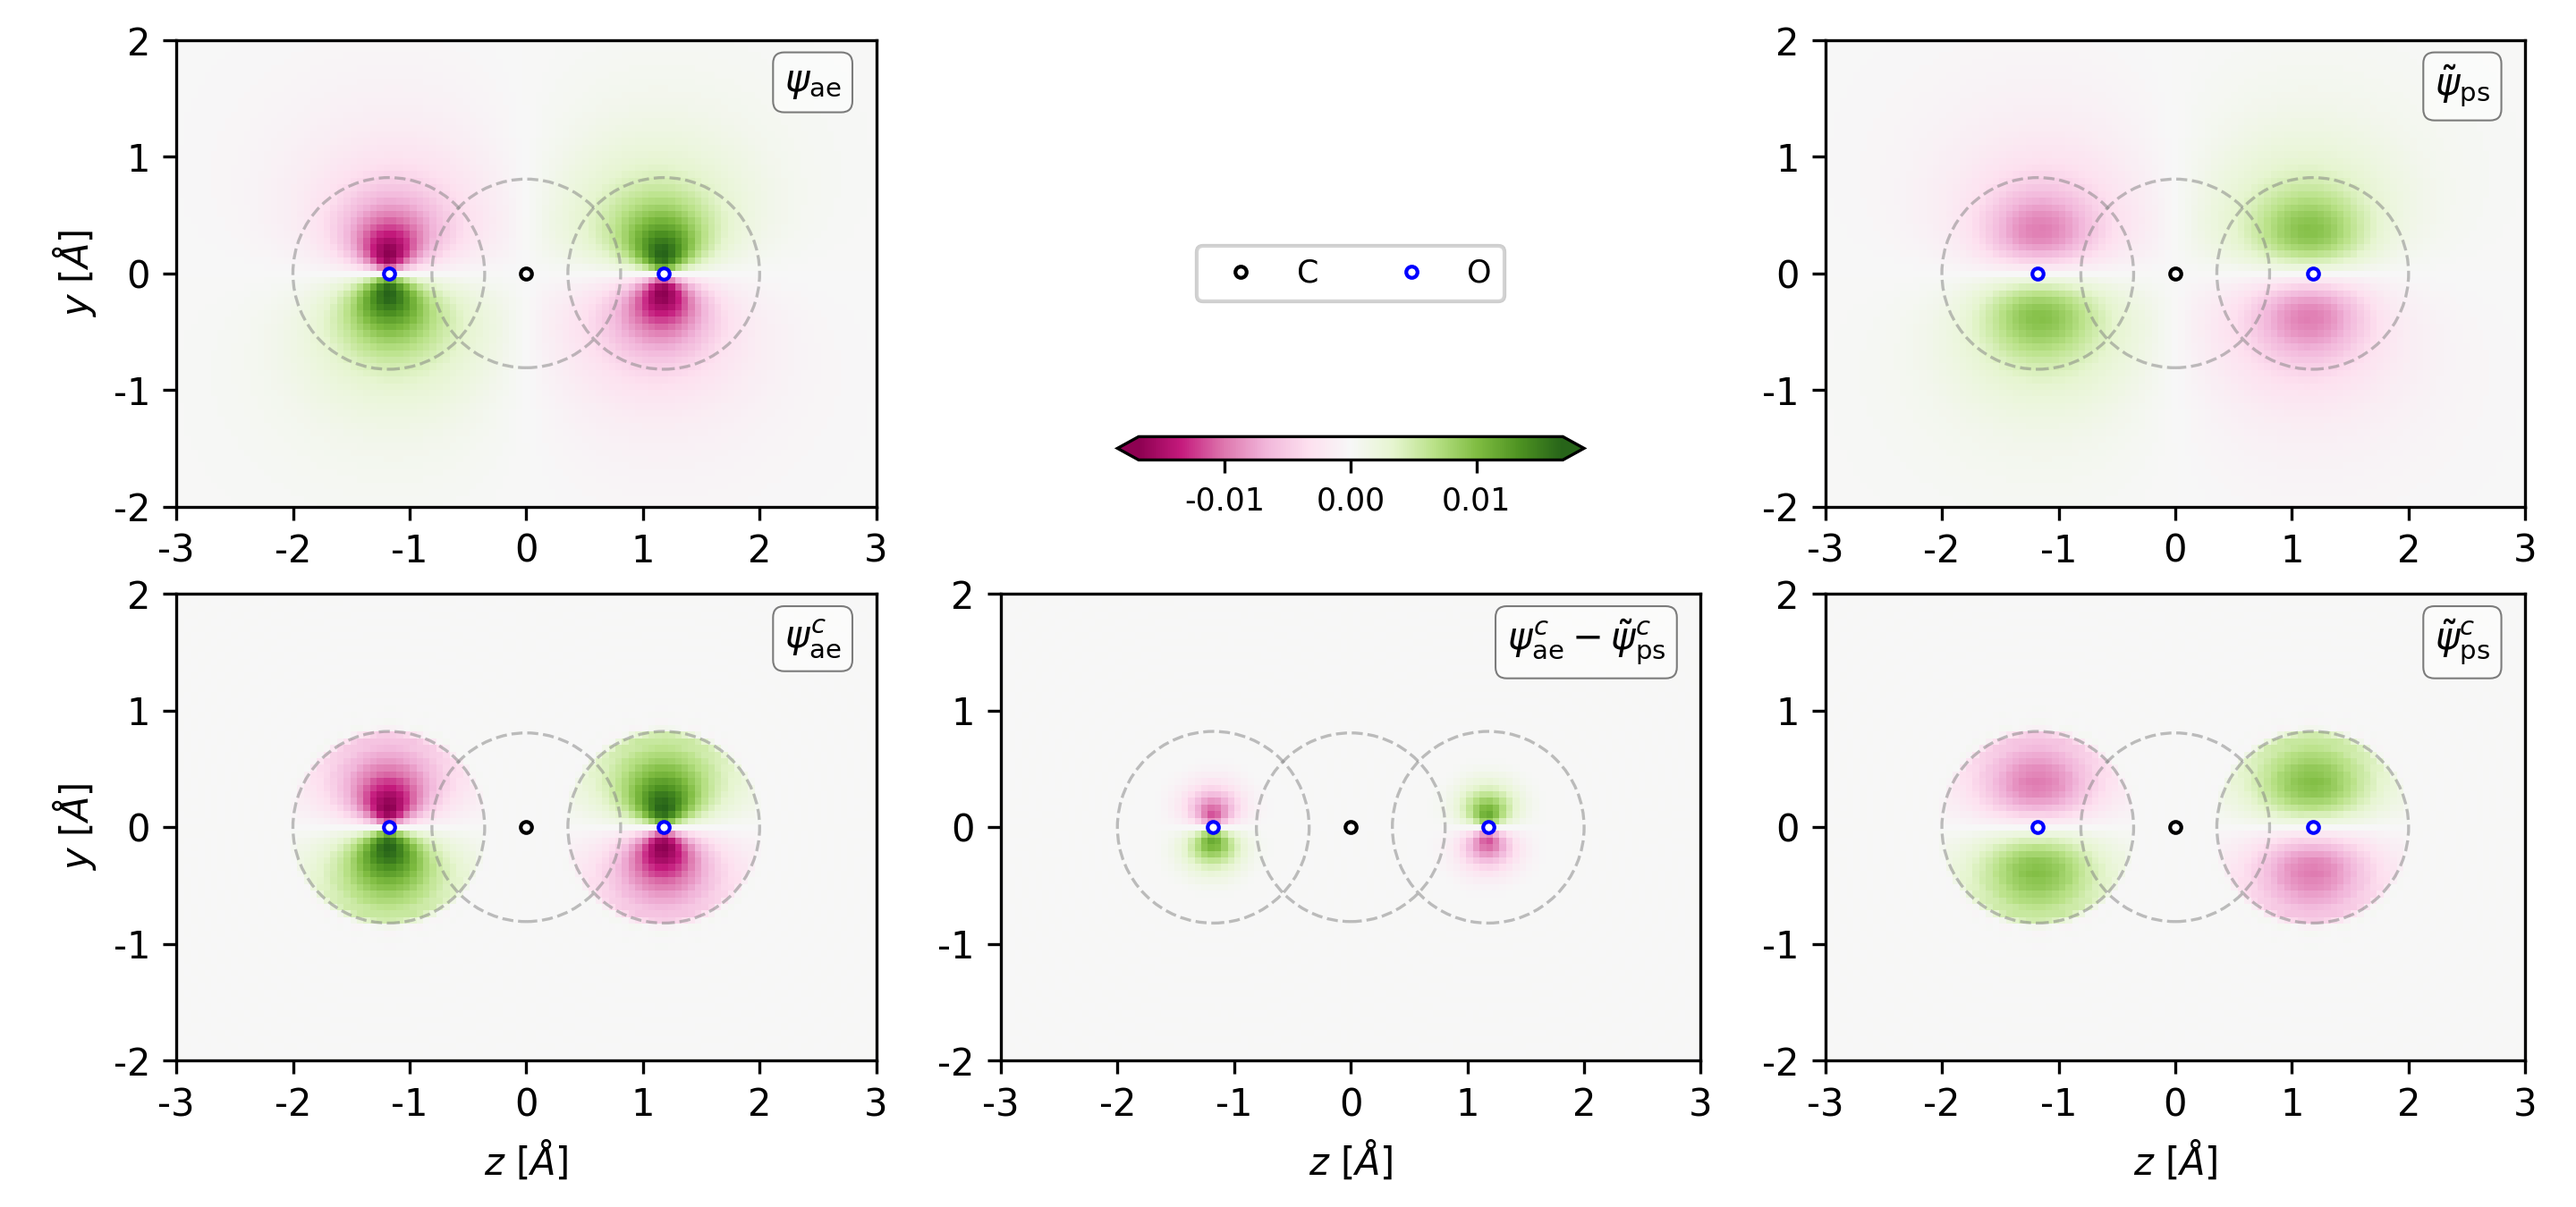
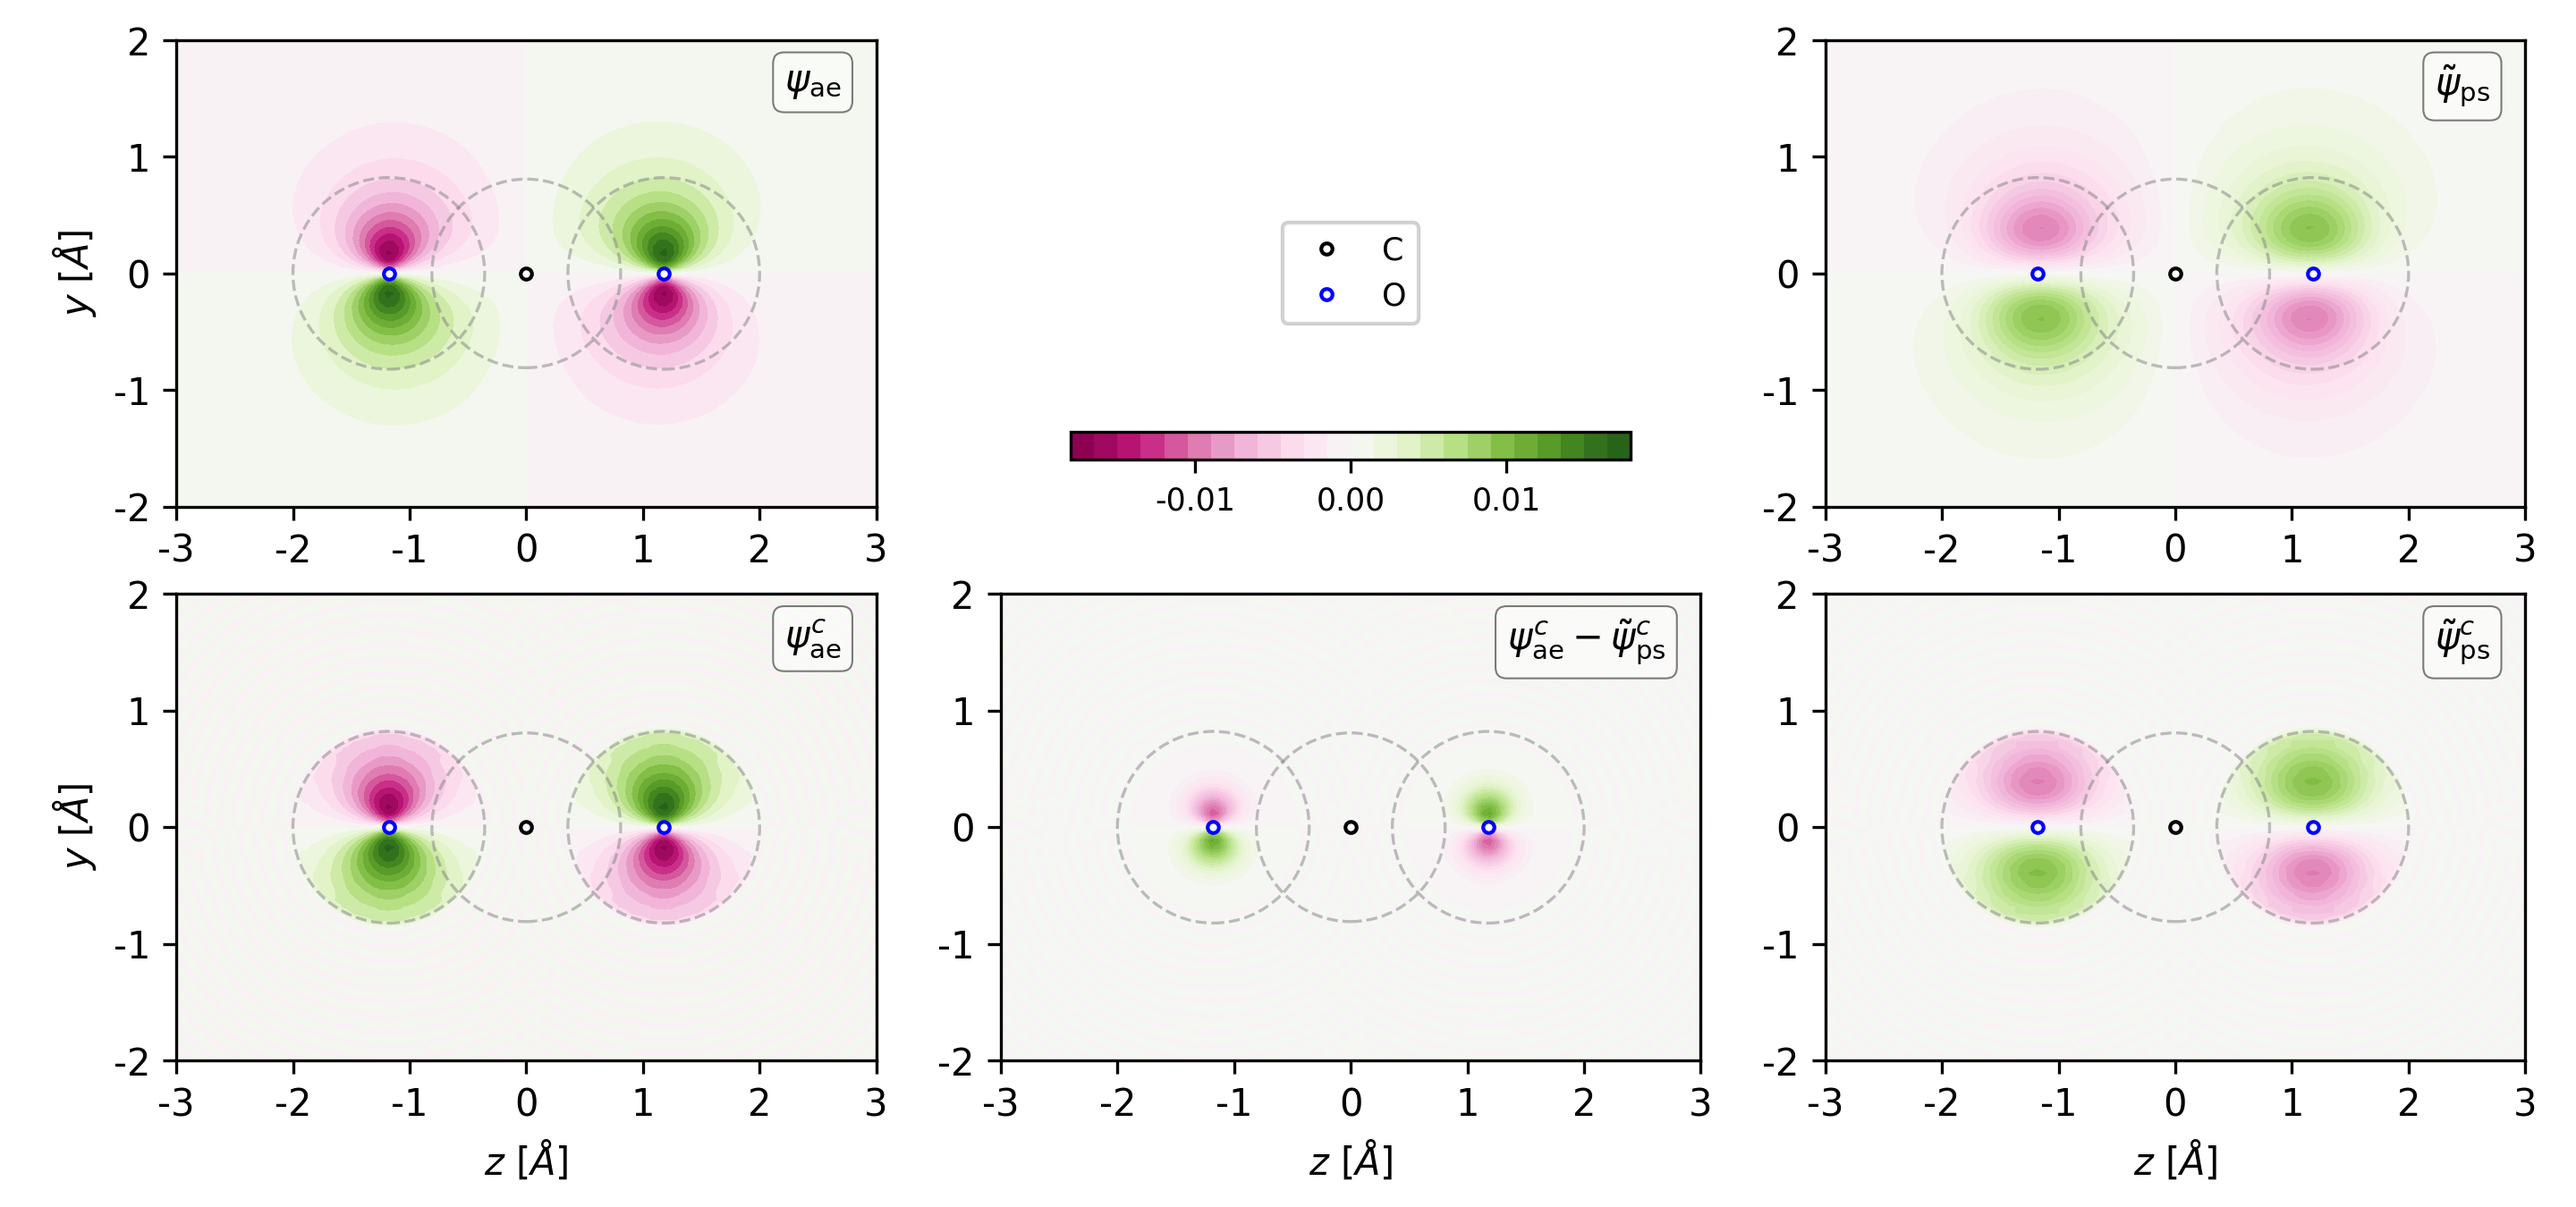
[examples/aewfc/co2] use contourf instead of pcolor to plot the 2D orbitals

diff --git a/examples/aewfc/co2/plt_ae-ps-core_wfc.py b/examples/aewfc/co2/plt_ae-ps-core_wfc.py
@@ -48,7 +48,7 @@ fig = plt.figure(
 )
 
 axes = [plt.subplot(2, 3, ii+1) for ii in range(6)]
-cax  = axes[1].inset_axes([0.00, 0.10, 1.00, 0.05])
+cax  = axes[1].inset_axes([-0.1, 0.10, 1.20, 0.06])
 
 atoms_colors = {
     'C': 'black',
@@ -81,7 +81,7 @@ for ii in range(6):
 
         leg1 = ax.legend(
             atoms_handles.values(), atoms_handles.keys(),
-            loc='center', ncol=2,
+            loc='center', # ncol=2,
             fontsize='small',
         )
         ax.add_artist(leg1)
@@ -89,8 +89,10 @@ for ii in range(6):
 
 
     wfc_c = orb_x0_plane[i_phi]
-    orb_map = ax.pcolor(
+    # orb_map = ax.pcolor(
+    orb_map = ax.contourf(
         x, y, np.roll(wfc_c, wfc_c.shape[0] // 2, axis=0),
+        levels=30,
         cmap='PiYG', zorder=1,
         vmin=orb_min, 
         vmax=orb_max, 
